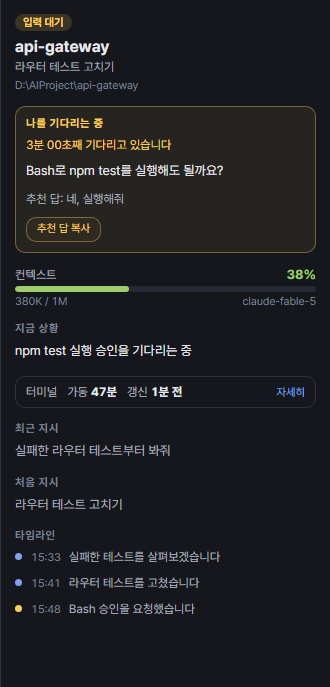
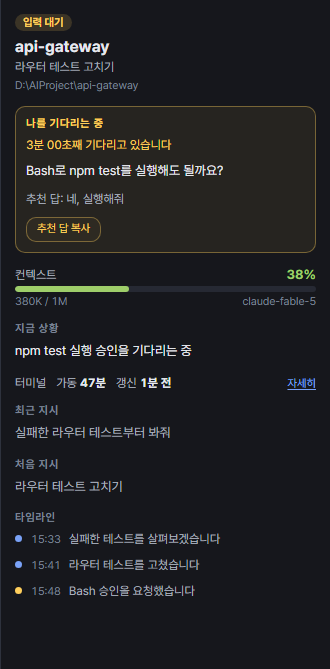
feat: 목록 행 바로가기 · 키보드 길 · 빈 화면 안내 · 상태줄 접힘 · 하위 탭 모양 (#217)
- 목록 행에 hover하면 터미널 열기 버튼 — 패널 바닥 버튼·Enter와 같은 길(openTerminalFor)
- 키보드: / 거르기 칸 · ↑↓ 자리 이동 · Enter 터미널 열기 · 1 2 3 패널 탭 · Esc 단계적(캡션·도움말 → 거르기 → 창 내리기)
- 전부 걸러졌을 때 제목 · 이유(거르기 값 · 접힌 방 수) · 한 번에 푸는 버튼(상태줄 배지와 같은 unhideAll)
- 상태줄은 좁은 창에서 토큰·사용률부터 접힌다
- 설정·출근부 하위 탭을 밑줄형으로 — 헤더의 알약 탭과 층이 갈린다
- 기본 정보 요약 줄의 테두리를 걷고 '자세히'만 링크처럼
- README 단축키 표 갱신, 캡처 다시 구움

diff --git a/renderer/style.css b/renderer/style.css
@@ -447,8 +447,24 @@ main {
   font-size: var(--fs-sm);
   color: var(--text-secondary);
 }
+/* 좁은 창(560px)에서는 다 못 선다. **토큰·사용률이 먼저 접히고**(shrink 10), 그다음 상태 수치가
+   말줄임으로 준다. 오른쪽 묶음(모습 전환 · 버전)은 안 준다. */
 #statusbar #stats {
+  flex: 0 1 auto;
+  min-width: 0;
+  overflow: hidden;
+  white-space: nowrap;
+  text-overflow: ellipsis;
   font-size: var(--fs-sm);
+}
+#statusbar #usage-mini {
+  flex: 0 10 auto;
+  min-width: 0;
+  overflow: hidden;
+  white-space: nowrap;
+}
+#statusbar .right {
+  flex: none;
 }
 #statusbar #version {
   font-family: var(--font-mono);
@@ -688,13 +704,30 @@ body.mini #stage-empty {
 }
 
 /* 전부 걸러졌을 때의 안내 — 빈 캔버스는 고장으로 읽힌다 */
+/* 제목 · 이유(거르기 값 · 접힌 방 수) · 한 번에 푸는 버튼. 문장 하나만 있을 때는 고장으로 읽혔다(#217) */
 #stage-empty {
+  display: grid;
+  gap: var(--sp-1);
+  justify-items: center;
   margin: 40px auto;
   max-width: 380px;
+  padding: var(--sp-5) var(--sp-4);
+  border-radius: var(--r-md);
+  background: var(--bg-app);
   text-align: center;
   font-size: var(--fs-sm);
   line-height: 1.7;
   color: var(--text-muted);
+}
+#stage-empty[hidden] {
+  display: none;
+}
+#stage-empty b {
+  color: var(--text-primary);
+  font-size: var(--fs-md);
+}
+#stage-empty .btn {
+  margin-top: var(--sp-2);
 }
 
 /* 방 거르기. 평소엔 배경에 묻어 있다가 초점이 오면 드러난다 — 방이 서넛일 땐 쓸 일이 없다 */
@@ -750,7 +783,28 @@ body.mini #stage-empty {
 }
 .rail-head {
   flex: none;
+  position: relative;
   padding: var(--sp-2) 10px;
+}
+/* 거르기 칸 끝의 `/` — 초점이 오면 사라진다(글자가 들어설 자리다) */
+.rail-key {
+  position: absolute;
+  right: 18px;
+  top: 50%;
+  transform: translateY(-50%);
+  pointer-events: none;
+  font-family: var(--font-mono);
+  font-size: 10px;
+  line-height: 1.4;
+  padding: 0 5px;
+  border: 1px solid var(--border);
+  border-bottom-width: 2px;
+  border-radius: 4px;
+  background: var(--bg-app);
+  color: var(--text-muted);
+}
+.rail-head:focus-within .rail-key {
+  display: none;
 }
 #rail-list {
   flex: 1;
@@ -826,6 +880,36 @@ body.mini #stage-empty {
 /* 기다린 시간만 색이 있다 */
 .rail-row time.t {
   color: var(--wait);
+}
+/* 행 안의 터미널 열기. 자리는 늘 차지하고(hover에 글자가 밀리지 않게) 보이는 것은 hover·고른 행에서만.
+   초록은 주 동작(.btn-go)과 같은 축이다 — "끝났다"가 아니라 "누르라"는 뜻 */
+.rail-row .rail-go {
+  flex: none;
+  display: grid;
+  place-items: center;
+  width: 18px;
+  height: 18px;
+  margin: -3px 0;
+  border: 1px solid var(--success-line);
+  border-radius: var(--r-sm);
+  color: var(--success);
+  visibility: hidden;
+}
+.rail-row:hover .rail-go,
+.rail-row.on .rail-go,
+.rail-row:focus-visible .rail-go {
+  visibility: visible;
+}
+.rail-row .rail-go:hover {
+  background: var(--success-dim);
+}
+.rail-row .rail-go.done {
+  background: var(--success);
+  color: var(--bg-app);
+}
+.rail-row .rail-go .ico {
+  width: 10px;
+  height: 10px;
 }
 .rail-empty {
   margin: var(--sp-5) 10px;
@@ -1055,17 +1139,16 @@ b.lv-na {
 
 /* ── 기본 정보 요약. 값 열두 개 중 늘 보는 셋만 한 줄에 세우고 나머지는 접는다.
    <details>라 JS가 없고, 요약 줄 전체가 손잡이다(summary 안에 다 들어 있다). */
+/* 테두리 없이 한 줄 — 전에는 상자여서 줄 전체가 버튼으로 읽혔는데 눌리는 것은 "자세히"뿐이었다(#217) */
 .sum {
   margin: 14px 0;
-  border: 1px solid var(--border);
-  border-radius: var(--r-md);
 }
 .sum > summary {
   display: flex;
   flex-wrap: wrap;
   align-items: baseline;
   gap: var(--sp-1) 10px;
-  padding: var(--sp-2) 10px;
+  padding: 0;
   font-size: var(--fs-sm);
   color: var(--text-secondary);
   cursor: pointer;
@@ -1082,20 +1165,19 @@ b.lv-na {
   color: var(--text-primary);
   font-variant-numeric: tabular-nums;
 }
+/* "자세히"만 링크처럼 — 눌리는 것이 이것뿐임을 모양으로 낸다 */
 .sum > summary em {
   margin-left: auto;
   color: var(--accent);
   font-style: normal;
   font-size: var(--fs-xs);
   white-space: nowrap;
+  text-decoration: underline;
+  text-underline-offset: 2px;
 }
-.sum[open] > summary {
-  border-bottom: 1px solid var(--border);
-}
-/* 펼친 표는 요약 줄 아래 칸에 들어간다 — 테두리는 바깥 <details>가 이미 그렸다 */
+/* 펼친 표는 요약 줄 아래에 자기 테두리를 갖는다 */
 .sum > .facts {
-  margin: 0;
-  border: 0;
+  margin: var(--sp-2) 0 0;
 }
 
 .facts {
@@ -1567,14 +1649,35 @@ b.lv-na {
   padding: 4px 14px 16px;
 }
 
-/* 하위 탭. 출근부의 범위 토글과 같은 모양을 쓴다 — 같은 판 안에서 같은 몸짓이어야 한다 */
+/* 하위 탭(설정의 일반·알림·방·단축키, 출근부의 근태·추이…). **밑줄형**이다 — 헤더의 패널 탭이
+   알약이라 두 층이 같은 모양이면 어느 줄이 무엇인지 흐려진다(#217). 생김새는 .btn-toggle이 내지만
+   여기서만 테두리·배경을 걷고 밑줄을 준다. */
 #cfg-tabs,
 #att-tabs {
   flex: none;
   display: flex;
   flex-wrap: wrap;
-  gap: 6px;
-  padding: 10px 14px 2px;
+  gap: 2px 14px;
+  padding: 6px 14px 0;
+  border-bottom: 1px solid var(--border);
+}
+#cfg-tabs .btn-toggle,
+#att-tabs .btn-toggle {
+  padding: 5px 2px 7px;
+  border: 0;
+  border-bottom: 2px solid transparent;
+  border-radius: 0;
+  background: none;
+  color: var(--text-muted);
+}
+#cfg-tabs .btn-toggle:hover,
+#att-tabs .btn-toggle:hover {
+  color: var(--text-primary);
+}
+#cfg-tabs .btn-toggle.on,
+#att-tabs .btn-toggle.on {
+  color: var(--text-primary);
+  border-bottom-color: var(--accent);
 }
 
 /* ── 출근부의 구간 고르기.

diff --git a/renderer/index.html b/renderer/index.html
@@ -55,6 +55,8 @@
       <aside id="rail">
         <div class="rail-head">
           <input id="room-filter" type="search" autocomplete="off" spellcheck="false" data-i18n-ph="topbar.filter" />
+          <!-- 단축키 힌트는 그 컨트롤 안에 적는다. 치기 시작하면 사라진다(style.css). -->
+          <kbd class="rail-key" aria-hidden="true">/</kbd>
         </div>
         <div id="rail-list"></div>
       </aside>

diff --git a/README.md b/README.md
@@ -293,6 +293,11 @@ the status bar at the bottom, the tray menu, or the shortcuts.
 | Back to the middle | tap `Space` |
 | Back to auto scale and centre | `Ctrl+0` (`Ctrl+=` · `Ctrl+-` step the scale) |
 | Fold either side column | `Ctrl+[` · `Ctrl+]`, or the handles on either edge of the office |
+| Jump to the room filter | `/` |
+| Previous · next session in the list | `↑` · `↓` |
+| Open the selected session's terminal | `Enter` (or the arrow that appears on a hovered row) |
+| Panel tabs | `1` · `2` · `3` — session · attendance · settings |
+| Step back | `Esc` — closes a caption, then clears the filter, then drops the window to the tray |
 
 `⌘` stands in for `Ctrl` on macOS.
 
